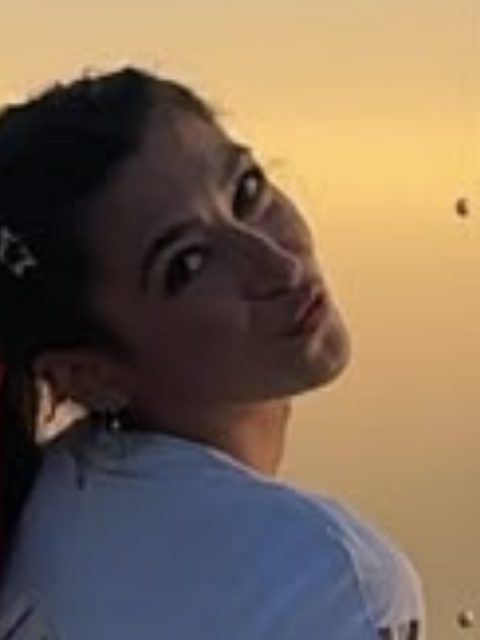
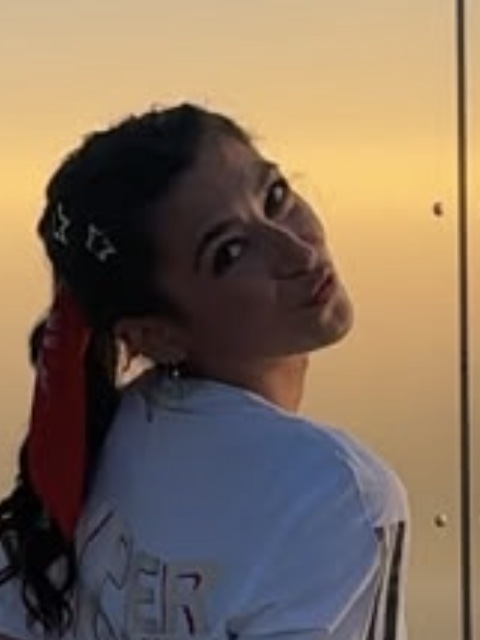
Adhérents : nouvelle photo de Sarah

diff --git a/donnees/membres.js b/donnees/membres.js
@@ -23,7 +23,7 @@ const MEMBRES=[
   {nom:'Alvin', citation:'Je vais tout arracher, tout gagner, c\'est une fierté de représenter ce club.', photo:'images/membres/alvin.jpg?v=1'},
   {nom:'Julien B', citation:'Yuli : le dealer de good mood 🌞', photo:'images/membres/julien-b.jpg?v=1'},
   {nom:'Mélanie', citation:'Plus je cours vite, plus vite je suis arrivée', photo:'images/membres/melanie.jpg?v=1'},
-  {nom:'Sarah', citation:'La Caille : espèce rare et bruyante à foulée rapide', photo:'images/membres/sarah.jpg?v=1'},
+  {nom:'Sarah', citation:'La Caille : espèce rare et bruyante à foulée rapide', photo:'images/membres/sarah.jpg?v=2'},
   {nom:'Victor C', citation:'La chance paie parfois, le travail toujours', photo:''},
   {nom:'Thibault', citation:'Work hard play harder', photo:'images/membres/thibault.jpg?v=1'},
   {nom:'Lucile', citation:'le ciel est bleu en 2 mots ? ciel bleu.', photo:'images/membres/lucile.jpg?v=1'},

diff --git a/notre-equipe.html b/notre-equipe.html
@@ -371,7 +371,7 @@ nav a:focus-visible,.nav-mobile a:focus-visible,footer a:focus-visible,footer bu
 
 <a id="back-to-top" href="#" onclick="event.preventDefault();window.scrollTo({top:0,behavior:'smooth'});" aria-label="Retour en haut">↑</a>
 
-<script src="donnees/membres.js?v=1058"></script>
+<script src="donnees/membres.js?v=1059"></script>
 <script>
 
 /* ===== EN IMAGES (mosaïque équipe, comme la galerie des adhérents) ===== */

diff --git a/nos-adherents.html b/nos-adherents.html
@@ -636,7 +636,7 @@ nav a:focus-visible,.nav-mobile a:focus-visible,footer a:focus-visible,footer bu
     </div>
   </div>
 </div>
-<script src="donnees/membres.js?v=1058"></script>
+<script src="donnees/membres.js?v=1059"></script>
 <script>
 
 /* ===== DONNÉES ===== */
